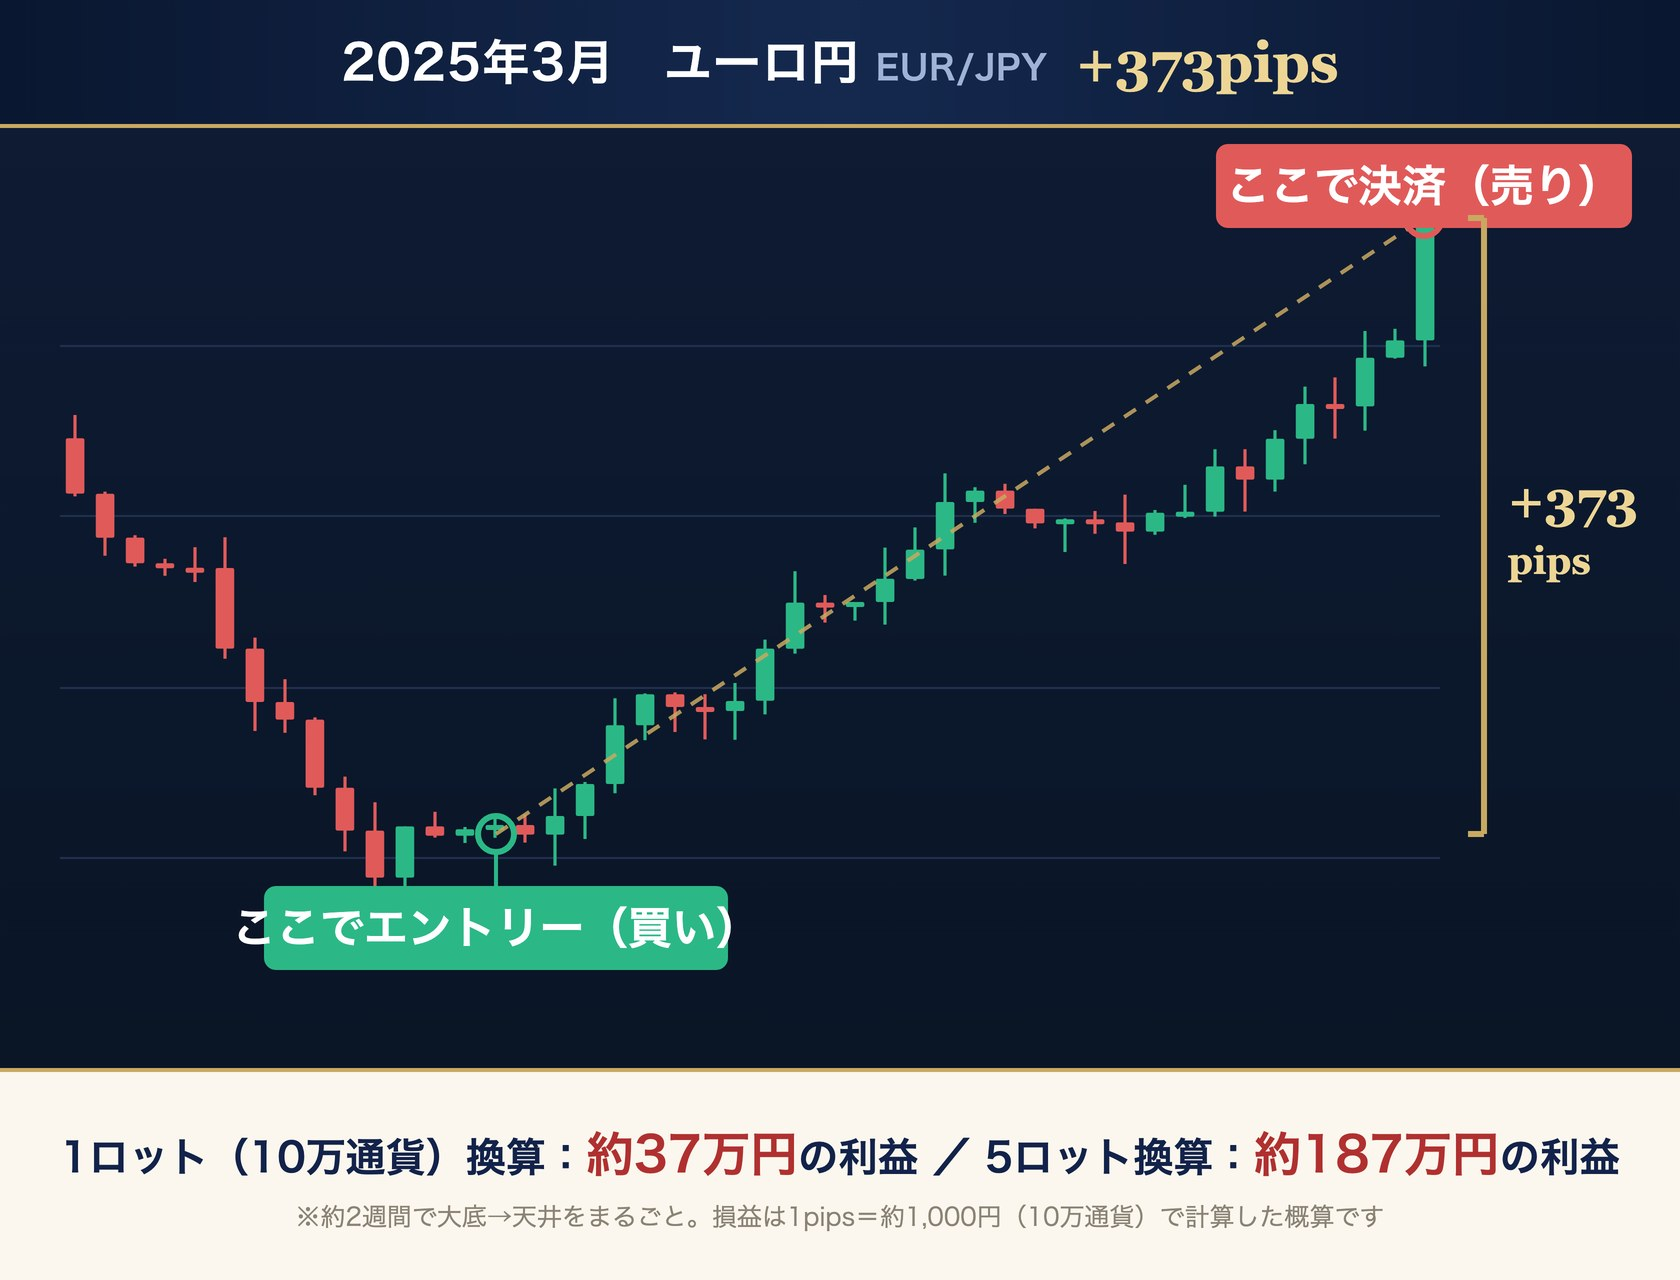
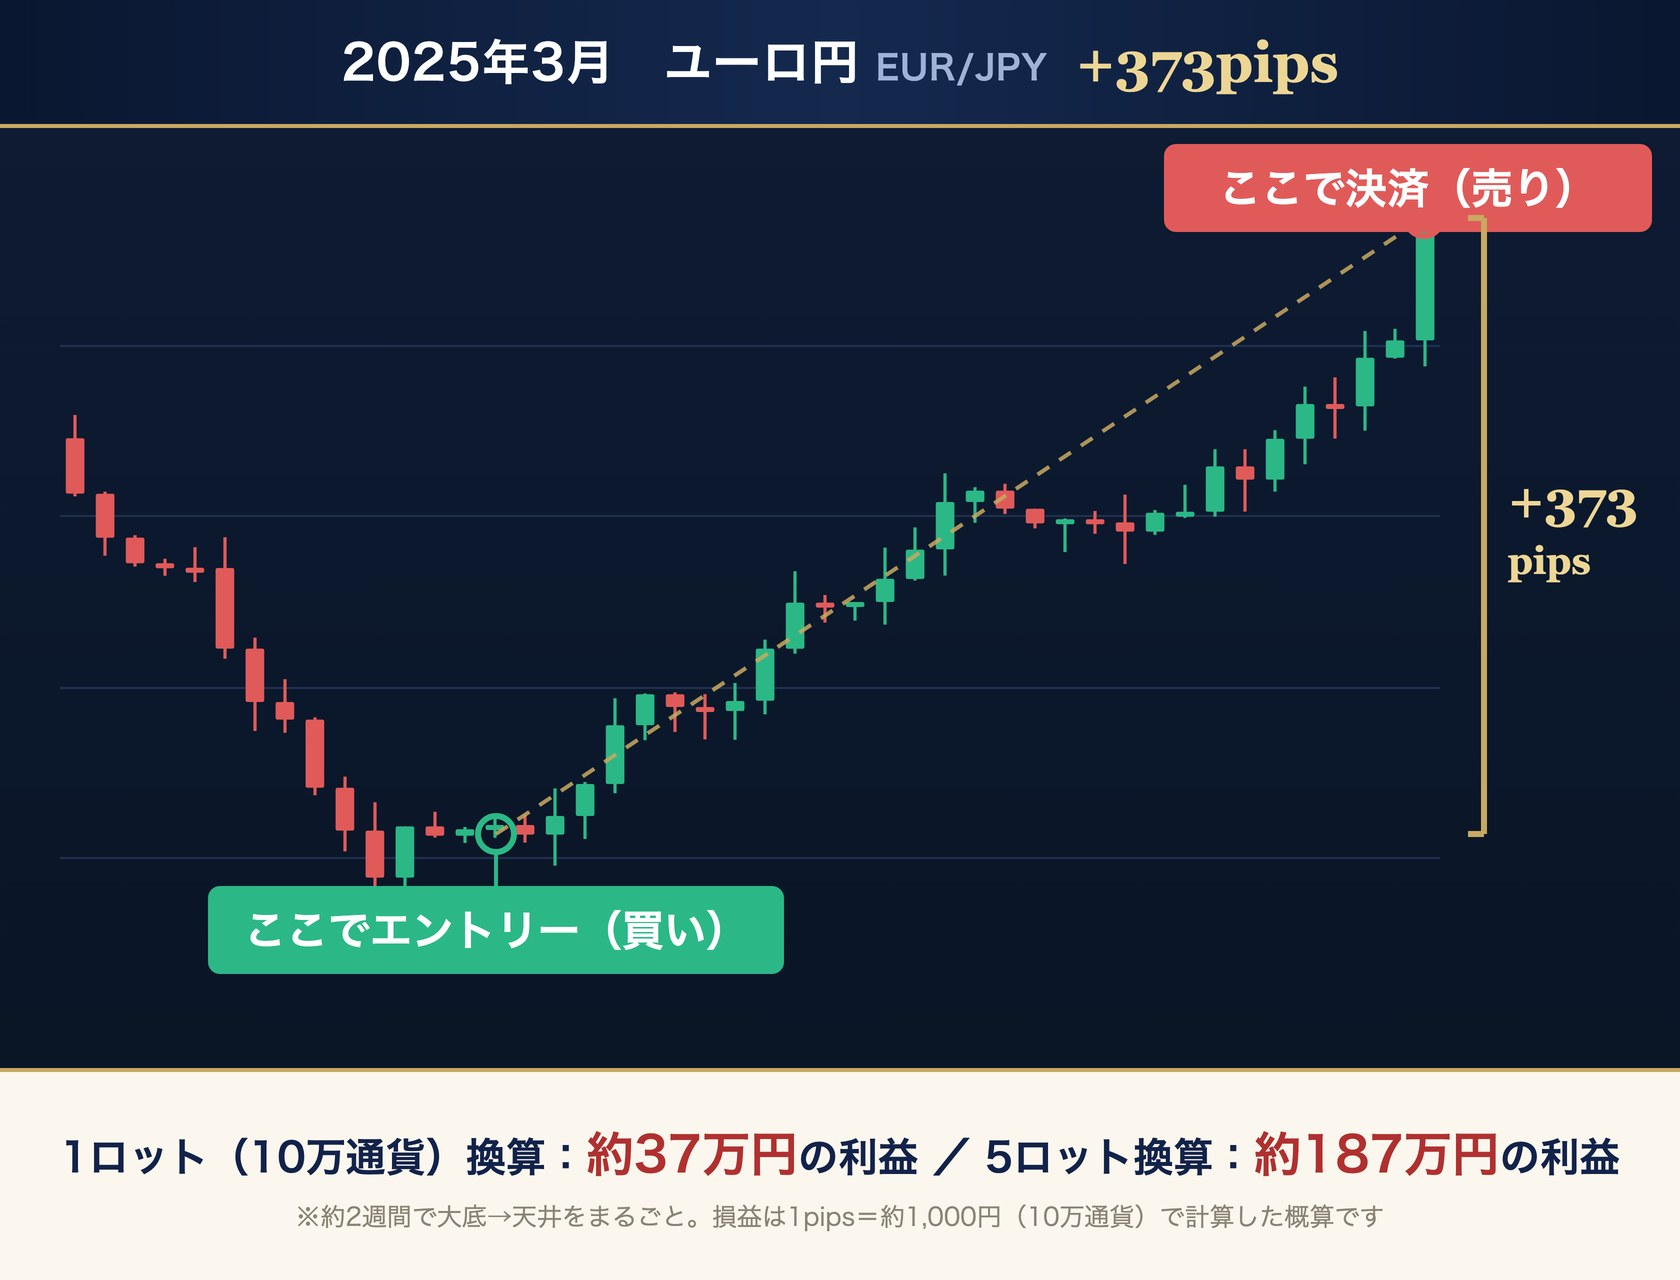
コピー修正（川中さん400万円以上/通算pips簡略化/冒頭サブヘッド/とはサブヘッド）、導入部に素材画像2点追加、チャートのラベルはみ出し修正

Changed region(s): [[0.681, 0.0938, 0.9905, 0.1875], [0.1238, 0.6875, 0.4643, 0.7812]]

diff --git a/index.html b/index.html
@@ -35,7 +35,7 @@
 </div>
 
 <!-- ==================== 導入 ==================== -->
-<h2 class="h2ttl">プロとして断言します。<br /><span class="ao-min mincho">心からあなたに使ってほしい、<br />究極ともいえる<br />インジケーターです。</span></h2>
+<h2 class="h2ttl">プロとして断言します。<br /><span class="ao-min mincho">収入源を増やし、<br />着実に資金を大きくしたい方は<br />必ず最後まで見てください。</span></h2>
 
 <div class="box2">
 <p><img src="images/img01.jpg" width="278" height="368" class="migi"/>
@@ -95,6 +95,8 @@
 ご覧になってください。</p>
 </div><!-- end box -->
 
+<img src="images/intro_growth.jpg" width="720" height="480" alt="小さな資金が大きく育つイメージ" class="gazo40 pkg"/>
+
 <div class="box2">
 <p>それでは、本題に入りましょう。<br /><br />
 
@@ -117,9 +119,13 @@ HIDEさんが開発したインジケーター、<br /><br />
 
 <span class="aka">「ただサインをマネするだけ」<br /><br />
 
-で、1年ちょっとで401万円を<br class="sp" />稼いでいますからね。</span><br /><br />
+で、1年ちょっとで400万円以上を<br class="sp" />稼いでいますからね。</span></p>
+</div><!-- end box -->
 
-そして今回。<br /><br />
+<img src="images/intro_morning.jpg" width="720" height="480" alt="朝のわずかな時間にスマホでチャートを確認するイメージ" class="gazo40 pkg"/>
+
+<div class="box2">
+<p>そして今回。<br /><br />
 
 そのHIDEさんから、<br />
 とんでもない知らせが届いたのです。<br /><br />
@@ -135,8 +141,7 @@ HIDEさんが開発したインジケーター、<br /><br />
 FX版はそれを上回る成績を、<br />
 すでに叩き出していたからです。<br /><br />
 
-<span class="aka">2026年も7月までで+3,936pips。<br />
-1年7ヶ月、19ヶ月連続で<br class="sp" />すべての月がプラス。<br />
+<span class="aka">2025年1月から、<br class="sp" />すべての月がプラスで、<br />
 通算+10,190pipsです。</span><br /><br />
 
 しかも今回は、<br /><br />
@@ -166,7 +171,7 @@ FX版はそれを上回る成績を、<br />
 </div><!-- end box -->
 
 <!-- ==================== FX HIDE IDとは ==================== -->
-<h2 class="h2ttl">奇跡のインジケーター<br /><span class="ao-min mincho">「FX HIDE ID」とは？</span></h2>
+<h2 class="h2ttl">超・安定利益を追求したい人へ送る<br /><span class="ao-min mincho">「FX HIDE ID」とは？</span></h2>
 
 <img src="images/package.jpg" width="720" height="500" alt="FX HIDE ID パッケージ" class="gazo40 pkg"/>
 
@@ -344,9 +349,9 @@ FXでは一般的に、<br />
 実際のトレードの流れを、<br />
 チャートで見てみてください。</p>
 
-<img src="images/chart_eurusd.jpg" width="800" height="610" alt="2025年4月 ユーロドル +404pips獲得チャート（エントリーと決済のポイント）" class="gazo30 pkg"/>
-<img src="images/chart_eurjpy.jpg" width="800" height="610" alt="2025年3月 ユーロ円 +373pips獲得チャート（エントリーと決済のポイント）" class="gazo30 pkg"/>
-<img src="images/chart_chfjpy.jpg" width="800" height="610" alt="2026年3月 スイスフラン円 +247pips獲得チャート（エントリーと決済のポイント）" class="gazo30 pkg"/>
+<img src="images/chart_eurusd.jpg?v=2" width="800" height="610" alt="2025年4月 ユーロドル +404pips獲得チャート（エントリーと決済のポイント）" class="gazo30 pkg"/>
+<img src="images/chart_eurjpy.jpg?v=2" width="800" height="610" alt="2025年3月 ユーロ円 +373pips獲得チャート（エントリーと決済のポイント）" class="gazo30 pkg"/>
+<img src="images/chart_chfjpy.jpg?v=2" width="800" height="610" alt="2026年3月 スイスフラン円 +247pips獲得チャート（エントリーと決済のポイント）" class="gazo30 pkg"/>
 
 <p>サインの通りにエントリーして、<br />
 サインの通りに決済する。<br /><br />